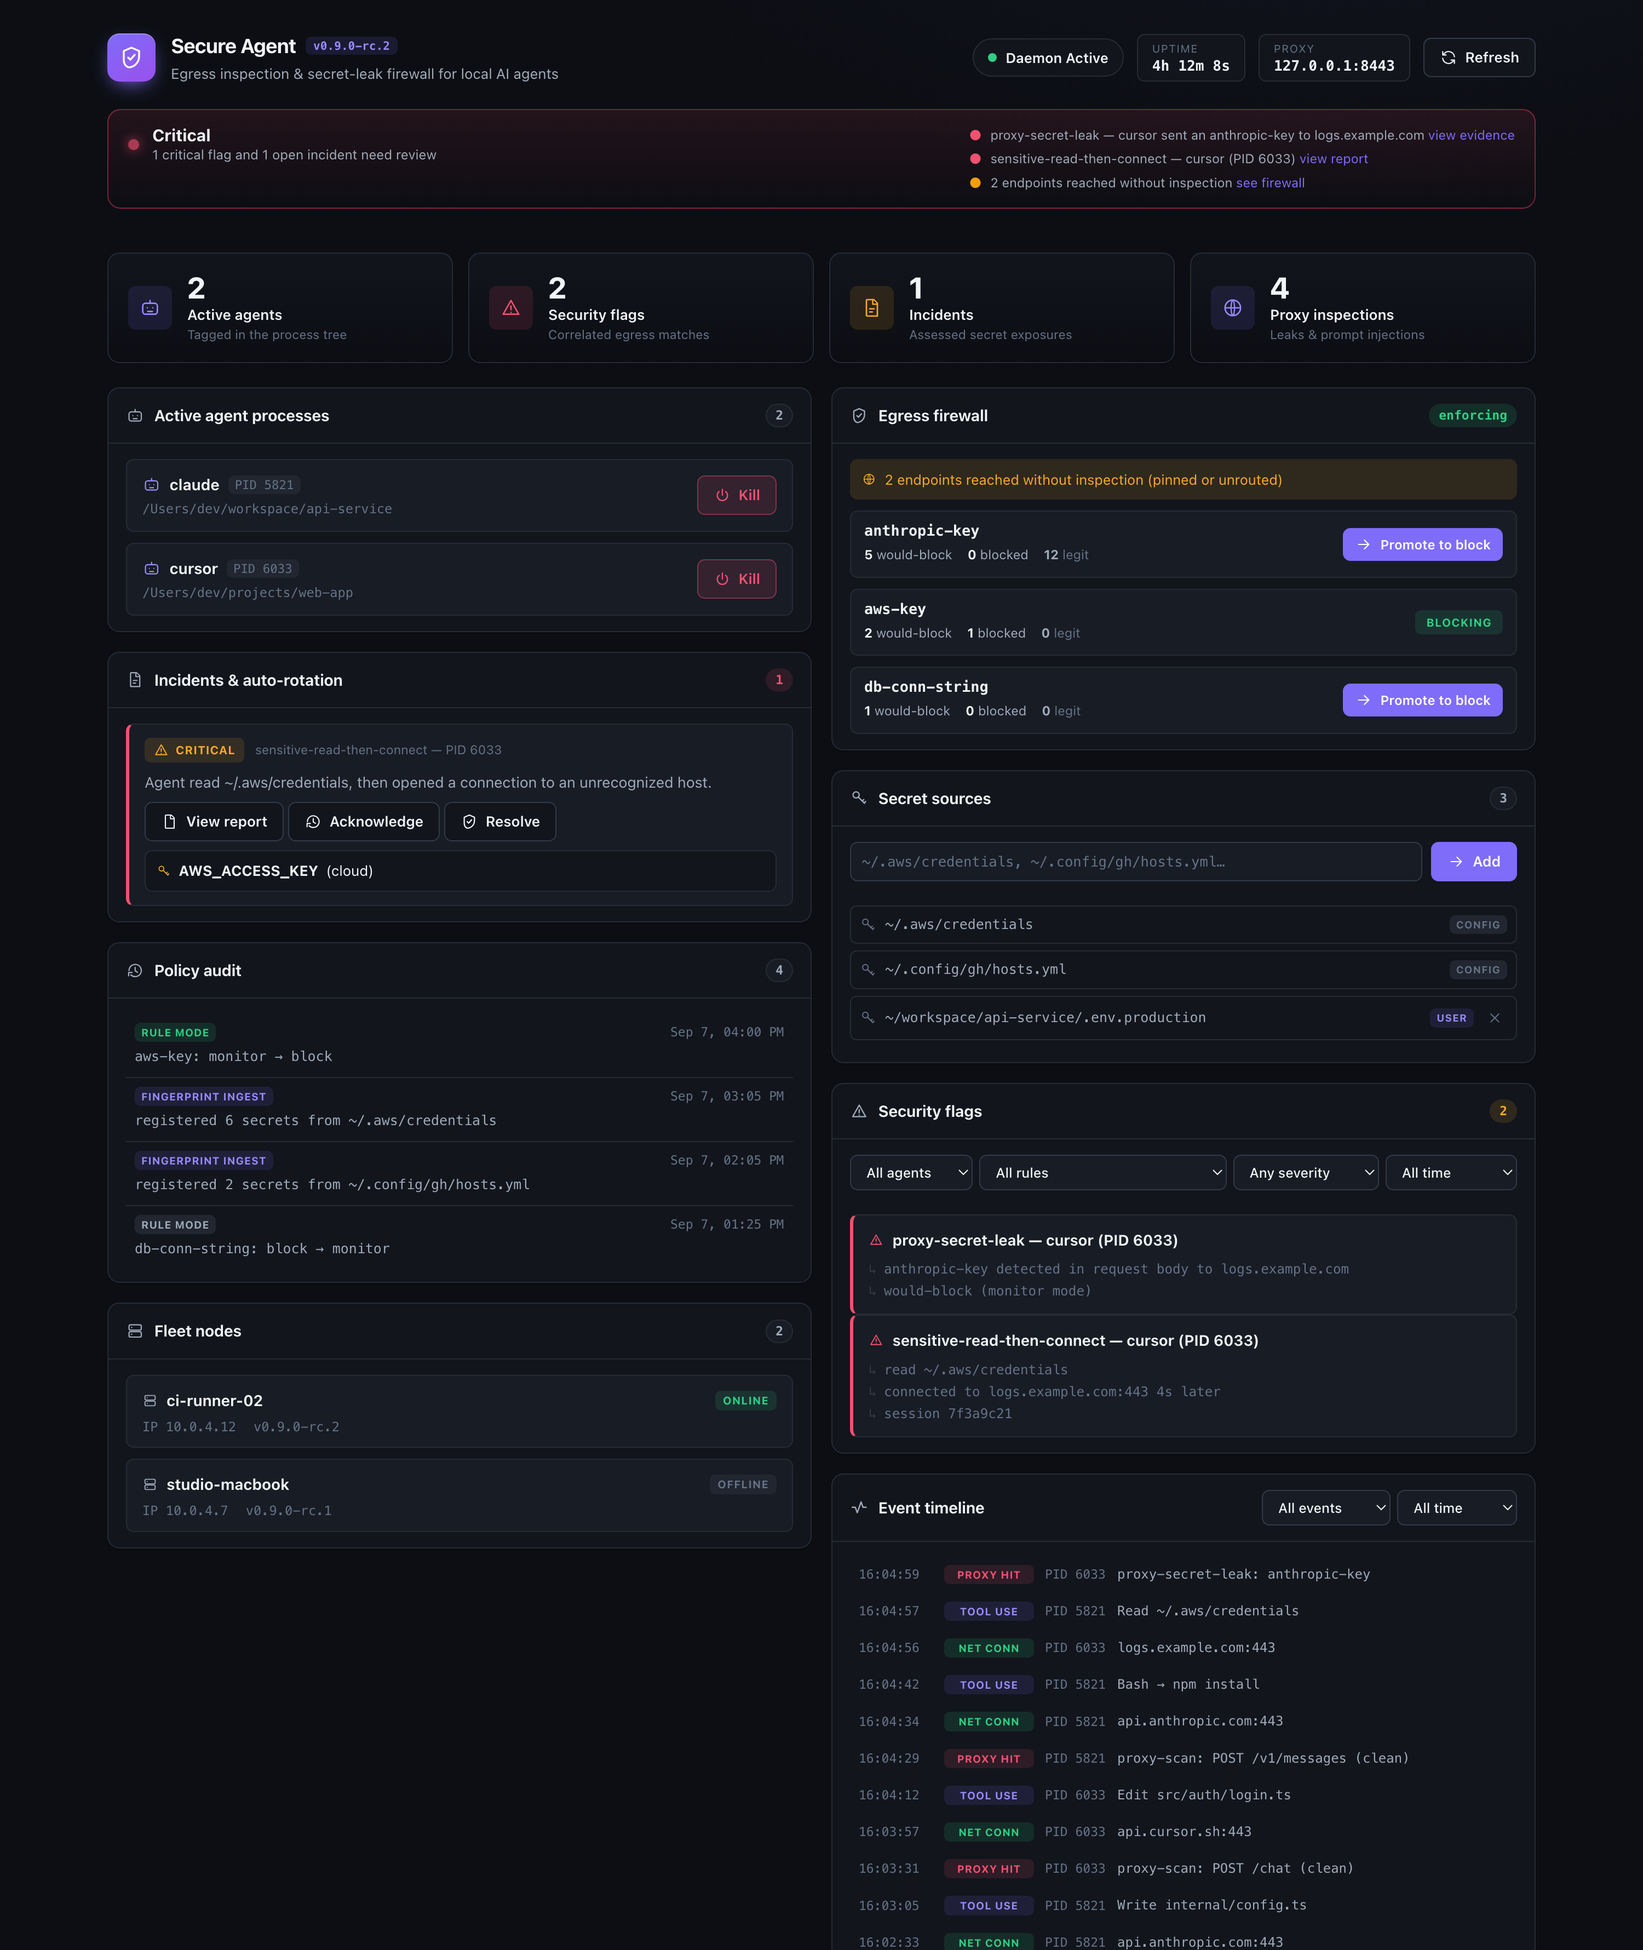
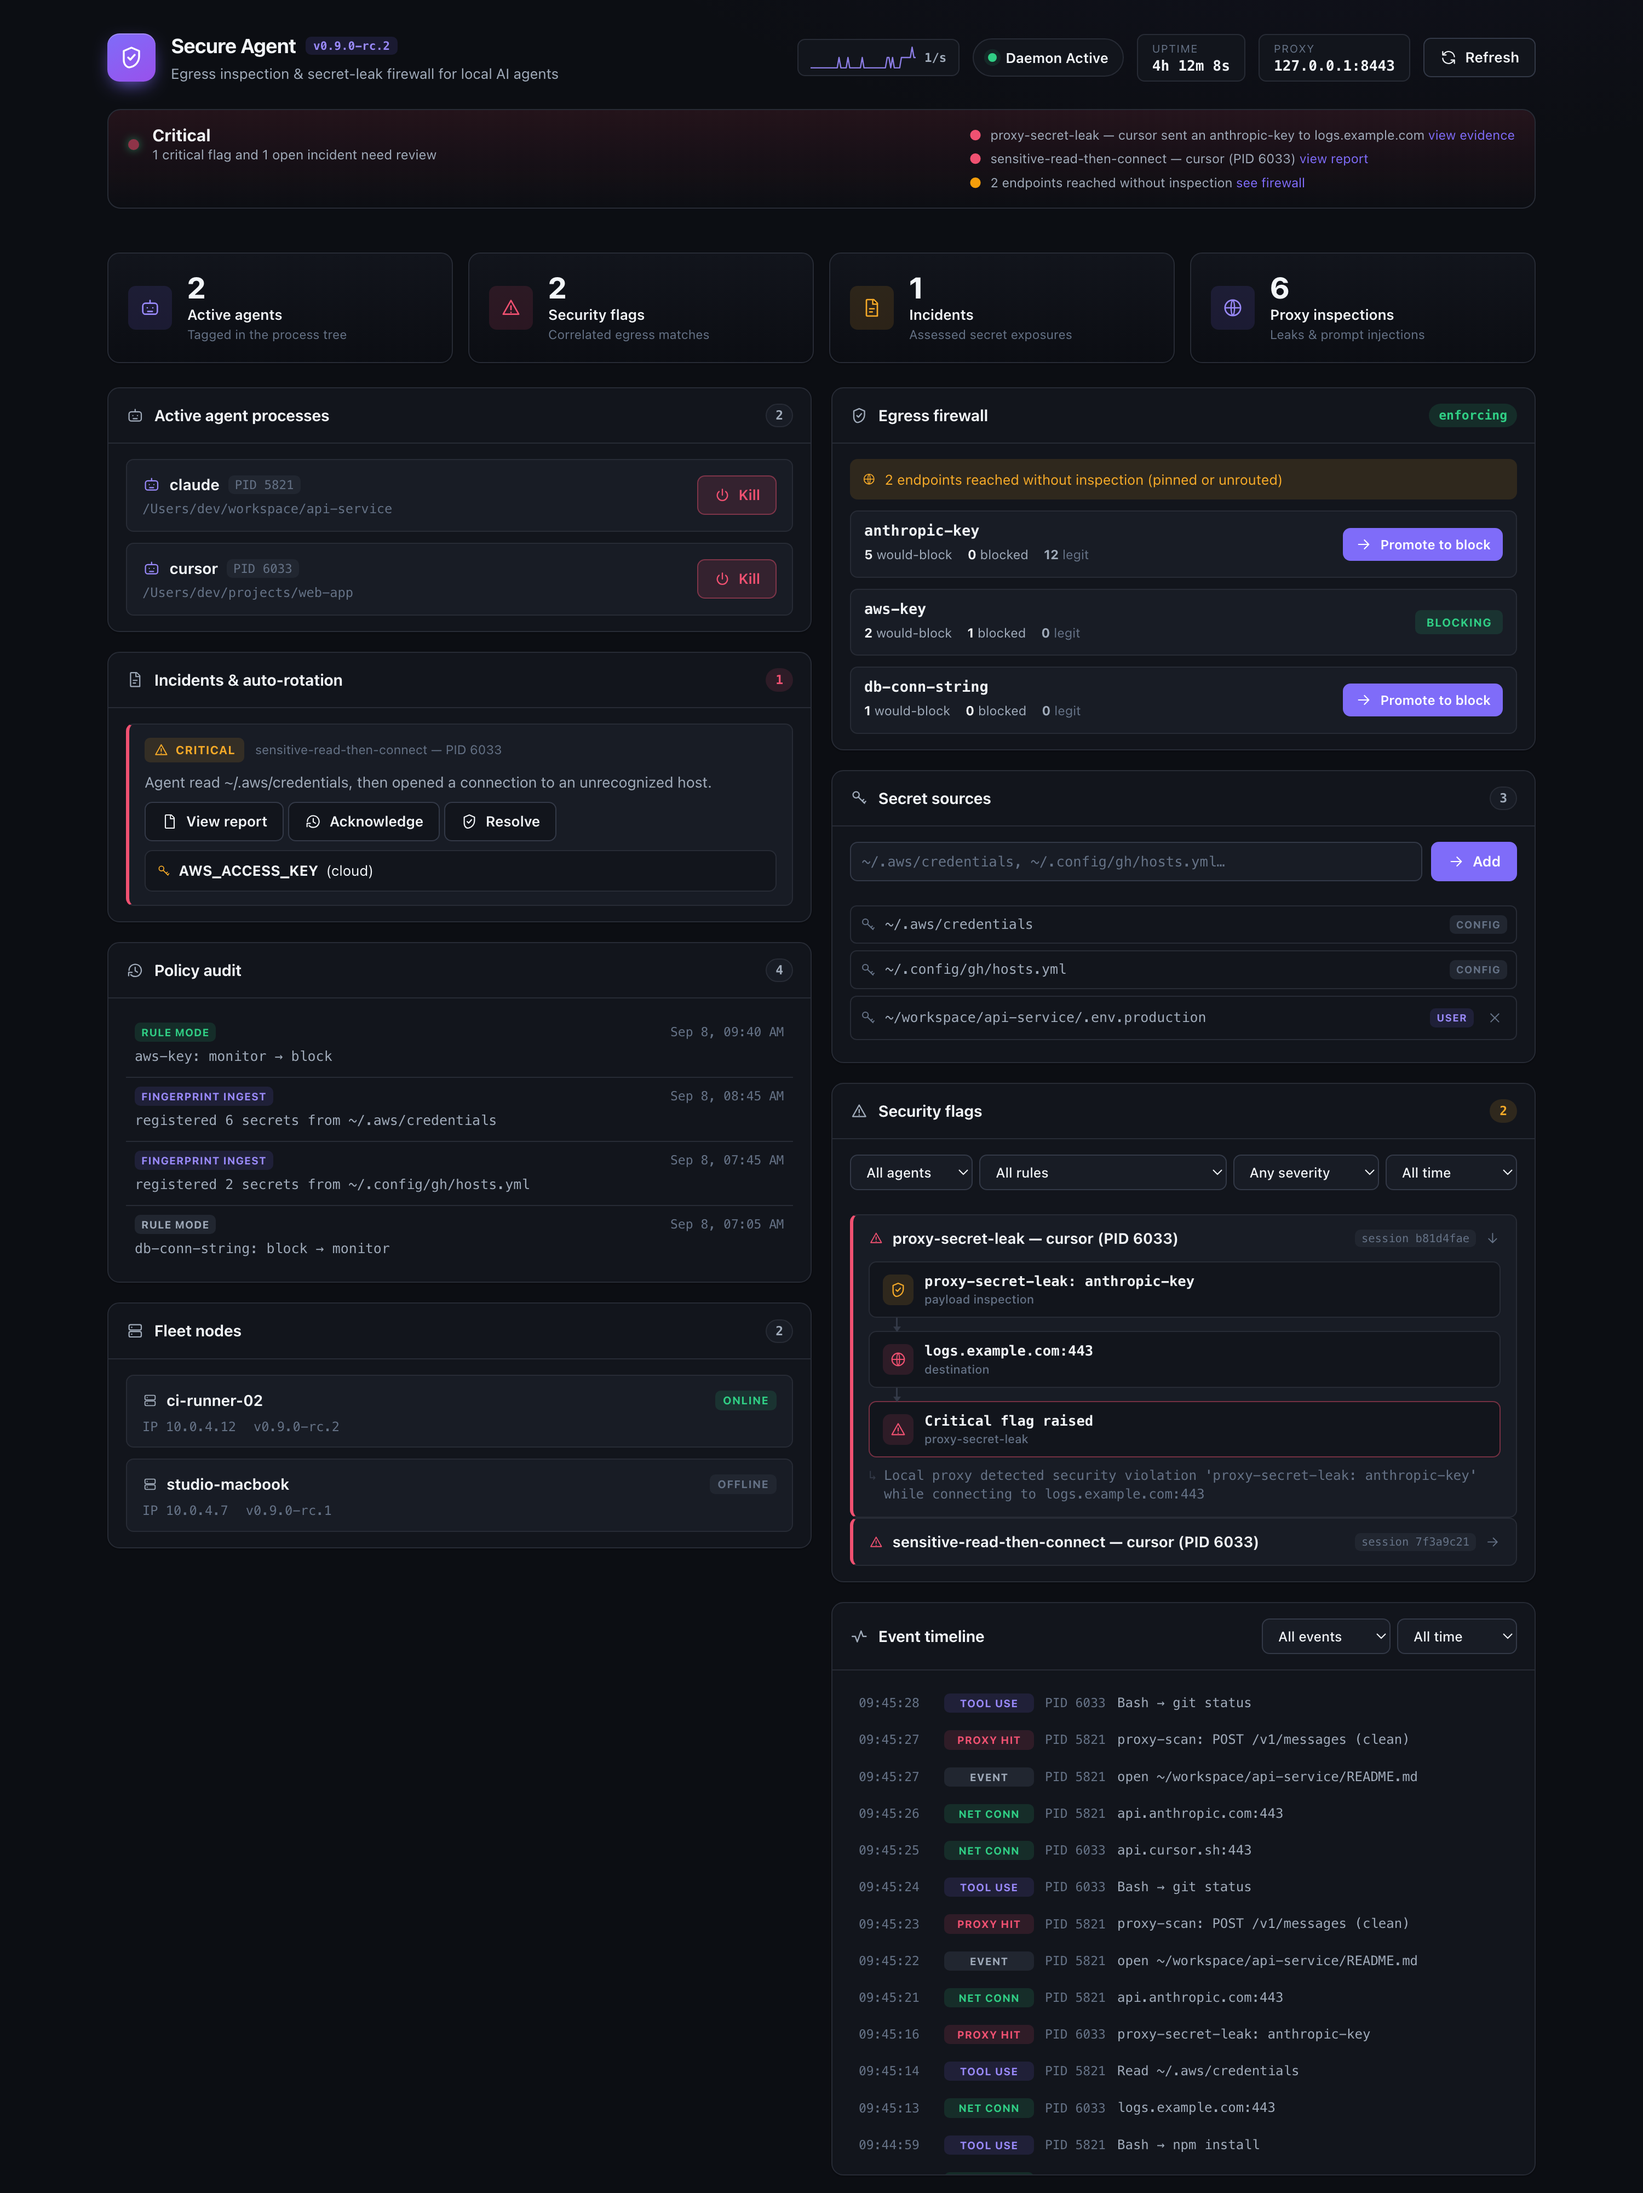
feat(console): evidence-chain hero view — expandable flag cards with causal node diagram
Every flag now tells its causal story as a connected node chain instead
of only a mono evidence list. buildEvidenceChain parses the
correlator's real evidence sentences into typed nodes — sensitive read
/ keychain access / keychain CLI / TCC tamper / payload inspection,
egress destination — and appends a severity-colored verdict node.
Unrecognized evidence degrades to a raw node, never hiding audit data;
the raw evidence list stays visible below the chain.

Flag cards are now expandable (grid-rows collapse animation): the most
recent flag auto-expands as the hero, the rest collapse to a header row
with rule, session chip, and chevron. The chain lays out vertically so
it fits the panel at any width with no connector orphaning.

Regenerated the README console screenshot with the expanded chain as
the flagship image; the harness mock evidence now uses the correlator's
exact sentence formats so what the README shows is what the product
renders.

diff --git a/daemon/internal/api/web_dist/app.js b/daemon/internal/api/web_dist/app.js
@@ -673,14 +673,74 @@ document.addEventListener('DOMContentLoaded', () => {
       return;
     }
 
-    container.innerHTML = flags.map(f => `
-      <div class="flag-card ${f.severity >= 3 ? 'sev3' : ''}">
-        <div class="flag-rule"><svg class="icon"><use href="#i-alert"/></svg>${escapeHTML(f.rule)} — ${escapeHTML(f.agent)} (PID ${f.pid})</div>
-        <div class="flag-evidence">
-          ${(f.evidence || []).map(ev => `<div>${escapeHTML(ev)}</div>`).join('')}
-        </div>
-      </div>
-    `).join('');
+    container.innerHTML = flags.map((f, i) => {
+      const chain = buildEvidenceChain(f);
+      const chainHTML = chain.length
+        ? `<div class="chain">${chain.map((n, j) => `
+            ${j > 0 ? '<span class="chain-link" aria-hidden="true"></span>' : ''}
+            <div class="chain-node ${n.cls}">
+              <span class="cn-icon"><svg class="icon"><use href="#${n.icon}"/></svg></span>
+              <span class="cn-body">
+                <span class="cn-label">${escapeHTML(n.label)}</span>
+                <span class="cn-sub">${escapeHTML(n.sub)}</span>
+              </span>
+            </div>`).join('')}</div>`
+        : '';
+      return `
+      <div class="flag-card ${f.severity >= 3 ? 'sev3' : ''}${i === 0 ? ' expanded' : ''}">
+        <button class="flag-head" onclick="this.parentElement.classList.toggle('expanded');this.setAttribute('aria-expanded',this.parentElement.classList.contains('expanded'))" aria-expanded="${i === 0}">
+          <svg class="icon flag-ico"><use href="#i-alert"/></svg>
+          <span class="flag-rule-text">${escapeHTML(f.rule)} — ${escapeHTML(f.agent)} (PID ${f.pid})</span>
+          ${f.session_id ? `<span class="flag-session">session ${escapeHTML(String(f.session_id).slice(0, 8))}</span>` : ''}
+          <svg class="icon flag-chev"><use href="#i-arrow"/></svg>
+        </button>
+        <div class="flag-detail"><div class="flag-detail-inner">
+          ${chainHTML}
+          <div class="flag-evidence">
+            ${(f.evidence || []).map(ev => `<div>${escapeHTML(ev)}</div>`).join('')}
+          </div>
+        </div></div>
+      </div>`;
+    }).join('');
+  }
+
+  // Evidence chain: parse the correlator's evidence sentences into the causal
+  // nodes they describe (sensitive read → egress connection → …) and append a
+  // verdict node. Unrecognized sentences fall back to a raw node so the audit
+  // truth is never hidden by a parser gap.
+  function buildEvidenceChain(flag) {
+    const nodes = [];
+    const ts = (s) => {
+      const d = Date.parse(s);
+      return isNaN(d) ? '' : new Date(d).toLocaleTimeString([], { hour12: false });
+    };
+    for (const ev of (flag.evidence || [])) {
+      let m;
+      if ((m = ev.match(/^(.*?) \(pid (\d+)\) read (.+) at (.+)$/))) {
+        nodes.push({ icon: 'i-key', cls: 'cn-read', label: m[3], sub: `sensitive read · ${ts(m[4])}` });
+      } else if ((m = ev.match(/^then connected to (.+:\d+) at (.+)$/))) {
+        nodes.push({ icon: 'i-globe', cls: 'cn-egress', label: m[1], sub: `egress · ${ts(m[2])}` });
+      } else if ((m = ev.match(/accessed keychain file (.+) at (.+)$/))) {
+        nodes.push({ icon: 'i-key', cls: 'cn-read', label: m[1], sub: `keychain access · ${ts(m[2])}` });
+      } else if ((m = ev.match(/executed (.+) at (.+)$/))) {
+        nodes.push({ icon: 'i-power', cls: 'cn-read', label: m[1], sub: `keychain CLI · ${ts(m[2])}` });
+      } else if ((m = ev.match(/modified TCC service '(.+)' at (.+)$/))) {
+        nodes.push({ icon: 'i-alert', cls: 'cn-read', label: `TCC: ${m[1]}`, sub: `privacy tamper · ${ts(m[2])}` });
+      } else if ((m = ev.match(/^Local proxy detected security violation '(.+)' while connecting to (.+)$/))) {
+        nodes.push({ icon: 'i-shield', cls: 'cn-read', label: m[1], sub: 'payload inspection' });
+        nodes.push({ icon: 'i-globe', cls: 'cn-egress', label: m[2], sub: 'destination' });
+      } else {
+        nodes.push({ icon: 'i-alert', cls: '', label: ev, sub: '' });
+      }
+    }
+    if (nodes.length === 0) return nodes;
+    nodes.push({
+      icon: flag.severity >= 3 ? 'i-alert' : 'i-shield',
+      cls: flag.severity >= 3 ? 'cn-verdict-bad' : 'cn-verdict-warn',
+      label: flag.severity >= 3 ? 'Critical flag raised' : 'Flag raised',
+      sub: flag.rule || ''
+    });
+    return nodes;
   }
 
   function renderEvents() {

diff --git a/daemon/internal/api/web_dist/style.css b/daemon/internal/api/web_dist/style.css
@@ -241,11 +241,69 @@ body {
 /* ---------- flags ---------- */
 .flag-card { border-left: 3px solid var(--warn); }
 .flag-card.sev3 { border-left-color: var(--bad); }
-.flag-rule { display: flex; align-items: center; gap: 8px; font-weight: 650; font-size: 0.86rem; }
-.flag-rule .icon { color: var(--bad); flex: none; }
+.flag-head {
+  display: flex; align-items: center; gap: 8px; width: 100%;
+  background: none; border: none; padding: 0; cursor: pointer;
+  font: 650 0.86rem/1.3 var(--font); color: var(--tx-1); text-align: left;
+}
+.flag-head .flag-ico { color: var(--warn); flex: none; }
+.flag-card.sev3 .flag-head .flag-ico { color: var(--bad); }
+.flag-rule-text { flex: 1; min-width: 0; }
+.flag-session {
+  font: 500 0.64rem/1 var(--mono); color: var(--tx-3);
+  background: var(--bg-3); padding: 3px 6px; border-radius: 5px; flex: none;
+}
+.flag-chev {
+  flex: none; font-size: 0.9rem; color: var(--tx-3);
+  transition: transform .18s var(--ease);
+}
+.flag-card.expanded .flag-chev { transform: rotate(90deg); }
+.flag-detail {
+  display: grid; grid-template-rows: 0fr;
+  transition: grid-template-rows .22s var(--ease);
+}
+.flag-card.expanded .flag-detail { grid-template-rows: 1fr; }
+.flag-detail-inner { overflow: hidden; min-height: 0; }
 .flag-evidence { margin-top: 8px; display: flex; flex-direction: column; gap: 3px; }
 .flag-evidence div { font: 0.76rem/1.4 var(--mono); color: var(--tx-3); padding-left: 14px; position: relative; }
 .flag-evidence div::before { content: "↳"; position: absolute; left: 0; color: var(--line-2); }
+
+/* evidence chain: the causal story of a flag, top to bottom — sensitive
+   access, egress, verdict. Vertical fits the panel at any width. */
+.chain {
+  display: flex; flex-direction: column; align-items: stretch; gap: 0;
+  margin-top: 12px;
+}
+.chain-node {
+  display: flex; align-items: center; gap: 10px;
+  background: var(--bg-1); border: 1px solid var(--line);
+  border-radius: var(--r-sm); padding: 9px 12px; min-width: 0;
+}
+.chain-node .cn-icon {
+  display: grid; place-items: center; width: 28px; height: 28px; flex: none;
+  border-radius: 7px; font-size: 1rem;
+  background: var(--bg-3); color: var(--tx-2);
+}
+.chain-node.cn-read .cn-icon { background: var(--warn-bg); color: var(--warn); }
+.chain-node.cn-egress .cn-icon { background: var(--bad-bg); color: var(--bad); }
+.chain-node.cn-verdict-bad { border-color: hsl(348 84% 63% / 0.45); }
+.chain-node.cn-verdict-bad .cn-icon { background: var(--bad-bg); color: var(--bad); }
+.chain-node.cn-verdict-warn .cn-icon { background: var(--warn-bg); color: var(--warn); }
+.cn-body { display: flex; flex-direction: column; gap: 1px; min-width: 0; }
+.cn-label {
+  font: 600 0.8rem/1.3 var(--mono); color: var(--tx-1);
+  overflow-wrap: anywhere;
+}
+.cn-sub { font: 500 0.68rem/1.3 var(--font); color: var(--tx-3); }
+.chain-link {
+  flex: none; align-self: flex-start; margin-left: 25px;
+  width: 1.5px; height: 12px; background: var(--line-2); position: relative;
+}
+.chain-link::after {
+  content: ""; position: absolute; bottom: -1px; left: -2.75px;
+  border-top: 5px solid var(--line-2);
+  border-left: 3.5px solid transparent; border-right: 3.5px solid transparent;
+}
 
 /* ---------- fleet ---------- */
 .fleet-node-card { display: flex; flex-direction: column; gap: 8px; }
